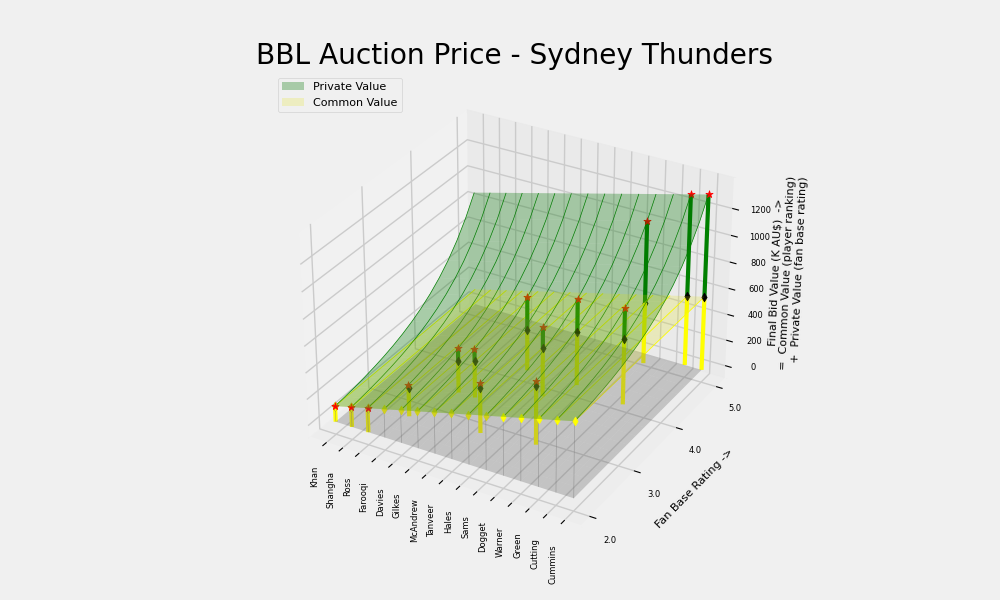
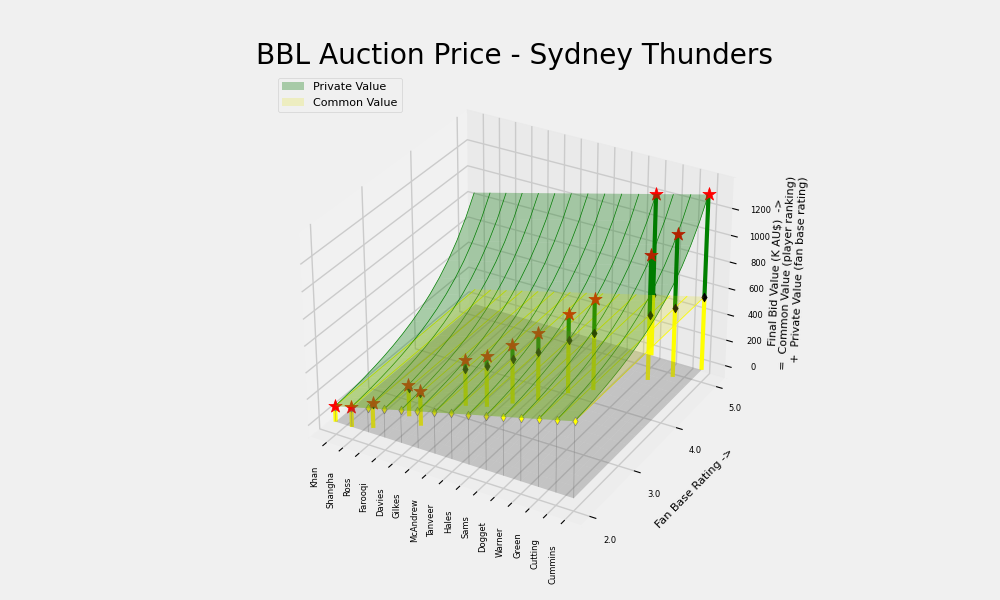
cmt

Changed region(s): [[0.31, 0.3, 0.713, 0.72]]

diff --git a/01StrategicDecision/Nashpy/15BBL_PlayerAuction.py b/01StrategicDecision/Nashpy/15BBL_PlayerAuction.py
@@ -46,9 +46,6 @@ for player in range(len(player_list)):
     ax.plot([player, player], [actual_fan_base_rating[player], actual_fan_base_rating[player]],
             [0, cv], color='yellow', linewidth=3)
     ax.scatter(player, actual_fan_base_rating[player], cv, color='k', s=20, alpha=1, marker='d')
-    ax.scatter(player, 2, cv, color='yellow', s=20, alpha=1, marker='d')
-    ax.scatter(player, actual_fan_base_rating[player], auction_value, color='red', s=30, alpha=1,
-               marker='*')
     ax.plot([player, player], [actual_fan_base_rating[player], actual_fan_base_rating[player]],
             [cv, auction_value], color='green', linewidth=3)
     ax.plot([player, player], [2, 2], [0, cv], color='grey', linewidth=.5, alpha=.5)
@@ -57,6 +54,9 @@ for player in range(len(player_list)):
                                       franchise_budget=2, sponsor_agreement=1.)
     ax.plot(np.ones(len(fan_base_rating))*player, fan_base_rating,
             c_val + p_val, color='green', linewidth=.5, alpha=1)
+    ax.scatter(player, 2, cv, color='yellow', s=20, alpha=1, marker='d', edgecolors='grey')
+    ax.scatter(player, actual_fan_base_rating[player], auction_value, color='red', s=100, alpha=1,
+               marker='*')
 
 ax.legend(loc='upper left', fontsize=8)
 ax.set_title("BBL Auction Price - Sydney Thunders")
